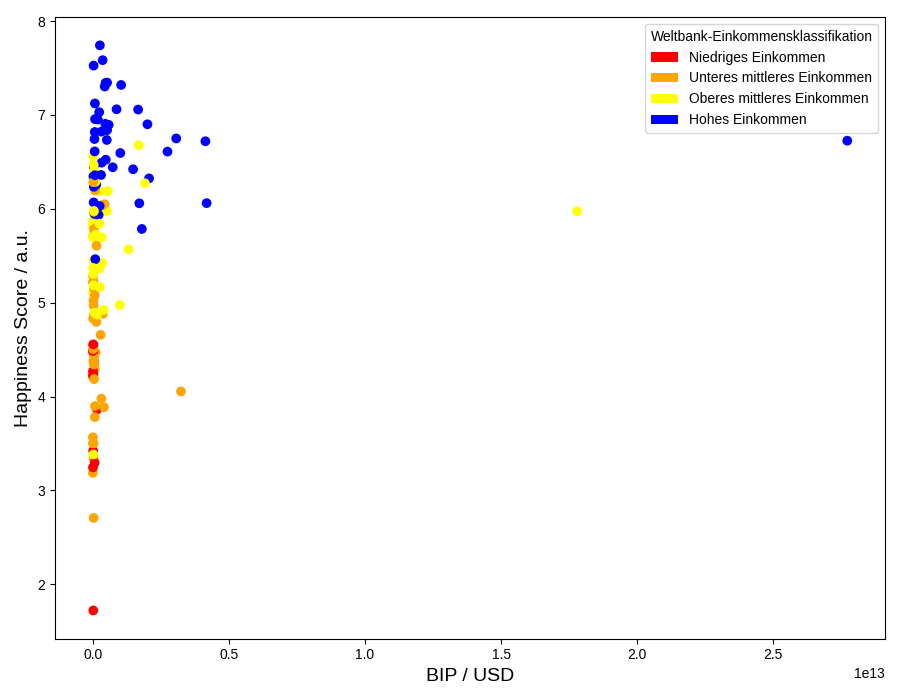
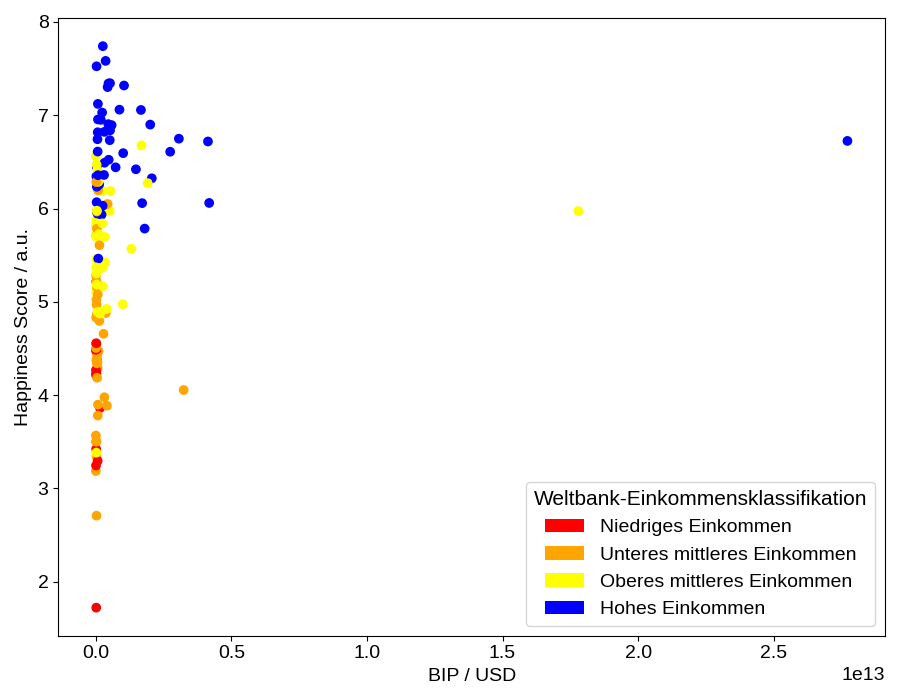
Fixed legend language

diff --git a/plotting.py b/plotting.py
@@ -34,6 +34,9 @@ df_sel = df[df["country"].isin(countries)].copy()
 # Rename to German
 df_sel["country"] = df_sel["country"].replace(country_translation)
 plt.rcParams['font.family'] = 'Liberation Sans'
+plt.rcParams['xtick.labelsize'] = 14
+plt.rcParams['ytick.labelsize'] = 14
+plt.rcParams['axes.labelsize'] = 14
 
 color_map = {
     "Low income": "red",
@@ -91,9 +94,10 @@ plt.legend(
     handles=legend_handles,
     title="Weltbank-Einkommensklassifikation",
     loc="upper left",
-    fontsize=14
+    fontsize=14,
+    title_fontsize=15
 )
-
+plt.xticks()
 plt.tight_layout()
 plt.savefig("/home/soeke/pb321-BigData/figures/plot-Happiness-Lebenserwartung.png")
 plt.show()
@@ -148,7 +152,8 @@ plt.legend(
     handles=legend_handles + [fit_line],
     title="Weltbank-Einkommensklassifikation",
     loc="upper left",
-    fontsize=14
+    fontsize=14,
+    title_fontsize=15
 )
 
 plt.tight_layout()
@@ -185,7 +190,7 @@ plt.scatter(
 plt.ylabel("Happiness Score / a.u.", fontsize=14)
 plt.xlabel("Erwartete Schuljahre / Jahre", fontsize=14)
 
-plt.legend(handles=legend_handles, title="Weltbank-Einkommensklassifikation")
+plt.legend(handles=legend_handles, title="Weltbank-Einkommensklassifikation",title_fontsize=15,fontsize=14)
 plt.tight_layout()
 plt.savefig("/home/soeke/pb321-BigData/figures/plot-Happiness-Bildung.png")
 plt.show()
@@ -254,7 +259,8 @@ legend_elements = [
 plt.legend(
     handles=legend_elements,
     loc="upper left",
-    frameon=True
+    frameon=True,
+    fontsize=14
 )
 plt.xlabel("Erwartete Bildungsdauer / Jahre")
 plt.ylabel("Happiness score / a.u.")
@@ -284,7 +290,7 @@ plt.ylabel("Happiness Score / a.u.", fontsize=14)
 plt.xlabel("BIP / USD", fontsize=14)
 #plt.xscale("log")
 
-plt.legend(handles=legend_handles, title="Weltbank-Einkommensklassifikation")
+plt.legend(handles=legend_handles, title="Weltbank-Einkommensklassifikation",title_fontsize=15,fontsize=14)
 plt.tight_layout()
 plt.savefig("/home/soeke/pb321-BigData/figures/plot-Happiness-BIP.png")
 plt.show()
@@ -339,7 +345,8 @@ plt.legend(
     handles=legend_handles + [fit_line],
     title="Weltbank-Einkommensklassifikation",
     loc="upper left",
-    fontsize=14
+    fontsize=14,
+    title_fontsize=15
 )
 
 plt.tight_layout()
@@ -398,7 +405,9 @@ plt.xlabel("BIP pro Einwohner / USD", fontsize=14)
 
 plt.legend(
     handles=legend_handles + [fit_line],
-    title="Weltbank-Einkommensklassifikation"
+    title="Weltbank-Einkommensklassifikation",
+    title_fontsize=15,
+    fontsize=14
 )
 plt.tight_layout()
 plt.savefig("/home/soeke/pb321-BigData/figures/plot-Happiness-BIP_pro_Einwohner.png")
@@ -426,7 +435,7 @@ plt.ylabel("Happiness Score / a.u.", fontsize=14)
 plt.xlabel("BIP pro Einwohner / USD", fontsize=14)
 #plt.xscale("log")
 
-plt.legend(title="Weltbank-Einkommensklassifikation")
+plt.legend(title="Weltbank-Einkommensklassifikation",title_fontsize=15,fontsize=14)
 plt.tight_layout()
 plt.savefig("/home/soeke/pb321-BigData/figures/plot-Happiness-BIP_pro_Einwohner-HighIncome.png")
 plt.show()
@@ -466,7 +475,9 @@ plt.xscale("log")
 plt.legend(
     handles=legend_handles,
     title="Weltbank-Einkommensklassifikation",
-    loc="upper left"
+    loc="upper left",
+    title_fontsize=15,
+    fontsize=14
 )
 plt.tight_layout()
 plt.savefig("/home/soeke/pb321-BigData/figures/plot-BIP_pro_Einwohner-Lebenserwartung.png")
@@ -492,7 +503,7 @@ plt.xlabel("BIP pro Einwohner / USD")
 plt.ylabel("Lebenserwartung / Jahre")
 plt.xscale("log")
 
-plt.legend(loc="upper left")
+plt.legend(loc="upper left",fontsize=14)
 plt.tight_layout()
 plt.savefig("/home/soeke/pb321-BigData/figures/plot-BIP_pro_Einwohner-Lebenserwartung-MannFrau.png")
 plt.show()
@@ -516,7 +527,9 @@ plt.xscale("log")
 plt.legend(
     handles=legend_handles,
     title="Weltbank-Einkommensklassifikation",
-    loc="upper left"
+    loc="upper left",
+    title_fontsize=15,
+    fontsize=14
 )
 plt.tight_layout()
 plt.savefig("/home/soeke/pb321-BigData/figures/plot-BIP_pro_Einwohner-Lebenserwartung-Differenz.png")
@@ -550,7 +563,7 @@ correlation_matrix = df_corr.corr()
 german_labels = {
     "population": "Bevölkerung",
     "Life_Expectancy_at_Birth": "Lebenserwartung",
-    "Life evaluation (3-year average)": "Happiness Score",
+    "Life evaluation (3-year average)": "Happiness Index",
     "gdp_per_capita": "BIP pro Einwohner",
     "gdp": "BIP",
     "gni": "GNI",
@@ -611,7 +624,9 @@ plt.xlabel("Happiness Score / a.u.", fontsize=14)
 plt.legend(
     handles=legend_handles,
     title="Weltbank-Einkommensklassifikation",
-    loc="lower right"
+    loc="upper left",
+    title_fontsize=15,
+    fontsize=14
 )
 
 plt.tight_layout()
@@ -639,15 +654,19 @@ plt.barh(
 )
 
 plt.xlabel("BIP pro Einwohner / USD", fontsize=14)
+"""
 legend_handles = [
     Patch(facecolor=color, label=label)
     for label, color in color_map.items()
 ]
+"""
 
 plt.legend(
     handles=legend_handles,
     title="Weltbank-Einkommensklassifikation",
-    loc="lower right"
+    loc="lower right",
+    title_fontsize=15,
+    fontsize=14
 )
 
 plt.tight_layout()
@@ -674,15 +693,19 @@ plt.barh(
 )
 
 plt.xlabel("HDI / a.u.", fontsize=14)
+"""
 legend_handles = [
     Patch(facecolor=color, label=label)
     for label, color in color_map.items()
 ]
+"""
 
 plt.legend(
     handles=legend_handles,
     title="Weltbank-Einkommensklassifikation",
-    loc="lower right"
+    loc="upper left",
+    title_fontsize=15,
+    fontsize=14
 )
 
 plt.tight_layout()
@@ -709,15 +732,14 @@ plt.barh(
 )
 
 plt.xlabel("GNI (2023) / USD", fontsize=14)
-legend_handles = [
-    Patch(facecolor=color, label=label)
-    for label, color in color_map.items()
-]
+
 
 plt.legend(
     handles=legend_handles,
     title="Weltbank-Einkommensklassifikation",
-    loc="lower right"
+    loc="lower right",
+    title_fontsize=15,
+    fontsize=14
 )
 
 plt.tight_layout()
@@ -744,15 +766,14 @@ plt.barh(
 )
 
 plt.xlabel("Einwohnerzahl", fontsize=14)
-legend_handles = [
-    Patch(facecolor=color, label=label)
-    for label, color in color_map.items()
-]
+
 
 plt.legend(
     handles=legend_handles,
     title="Weltbank-Einkommensklassifikation",
-    loc="lower right"
+    loc="lower right",
+    title_fontsize=15,
+    fontsize=14
 )
 
 plt.tight_layout()
@@ -788,7 +809,7 @@ plt.bar(
 plt.xticks(x, df_plot["country"], rotation=45)
 plt.ylabel("Lebenserwartung / Jahre", fontsize=14)
 
-plt.legend(loc="upper left")
+plt.legend(loc="upper left",fontsize=14)
 plt.tight_layout()
 plt.savefig("/home/soeke/pb321-BigData/figures/plot-Lebenserwartung-MannFrau-individual-Countries.png")
 plt.show()
